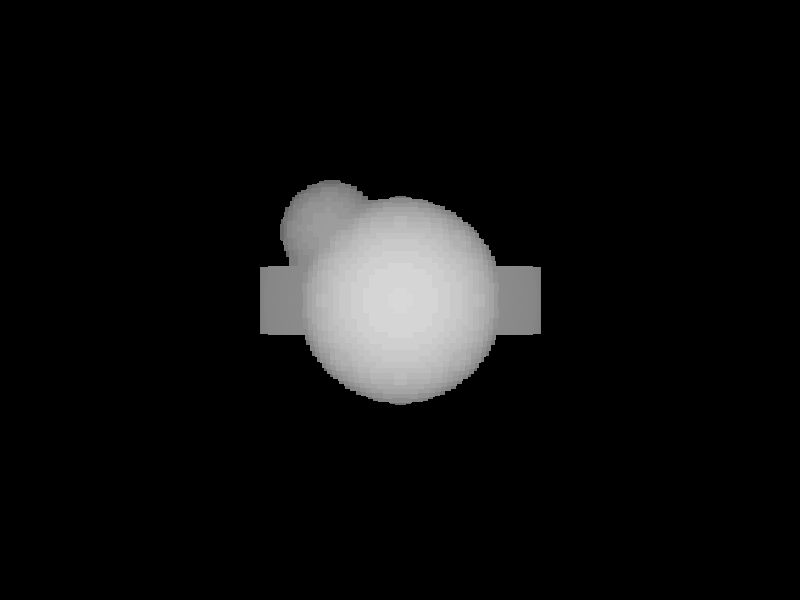
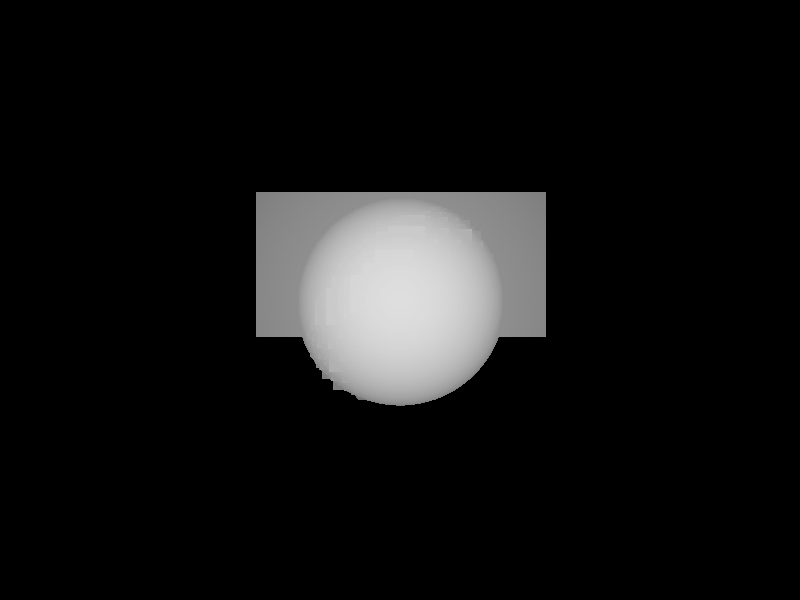
Replace the value function and corner comparing
Implement proper overlap in cubes and somewhat overlap in cube with
sphere. The latter isn't working great for a couple of cases. But that
will be for later. Performance is starting to go down mainly because
of the better octree model and thus deeper raycasting walking.

Changed region(s): [[0.3125, 0.3, 0.6875, 0.69], [0.5938, 0.57, 0.625, 0.63], [0.5625, 0.63, 0.5938, 0.66]]

diff --git a/src/octree/scene.rs b/src/octree/scene.rs
@@ -13,11 +13,35 @@ pub struct Cube {
 }
 
 impl Cube {
-    pub fn value_at(&self, coordinate: &Coordinate) -> bool {
-        let relative = (*coordinate - self.root);
-        return relative.x >= 0.0 && relative.x <= self.width &&
+    pub fn value_at(&self, tree_root: &Coordinate, tree_width: f64) -> char {
+        let relative = (*tree_root - self.root);
+        let root_inside = relative.x >= 0.0 && relative.x <= self.width &&
                relative.y >= 0.0 && relative.y <= self.height &&
                relative.z >= 0.0 && relative.z <= self.depth;
+
+        //when the cube exceeds the tree_node's cube.
+        if root_inside && 
+            relative.x + tree_width < self.width && 
+            relative.y + tree_width < self.height &&
+            relative.z + tree_width < self.depth {
+            return 'f'
+        }
+
+
+        //http://stackoverflow.com/questions/5009526/overlapping-cubes
+        let cond1 = self.root.x + self.width < tree_root.x;
+        let cond2 = tree_root.x + tree_width < self.root.x;
+        let cond3 = self.root.y + self.height < tree_root.y;
+        let cond4 = tree_root.y + tree_width < self.root.y;
+        let cond5 = self.root.z + self.depth < tree_root.z;
+        let cond6 = tree_root.z + tree_width < self.root.z;
+
+
+        if cond1 || cond2 || cond3 || cond4 || cond5 || cond6 {
+            return 'e'
+        } else {
+            return 'p'
+        }
     }
 }
 
@@ -27,10 +51,54 @@ pub struct Sphere {
 }
 
 impl Sphere {
-    pub fn value_at(&self, coordinate: &Coordinate) -> bool {
-        return (*coordinate - self.root).norm() <= self.radius;
+    pub fn value_at(&self, coordinate: &Coordinate, width: f64) -> char {
+        let relative = (*coordinate - self.root);
+
+
+
+        let S = self.root;
+        let C1 = *coordinate;
+        let C2 = C1 + Coordinate::new(width, width, width);
+        let R = self.radius;
+        let mut dist_squared = R * R;
+        /* assume C1 and C2 are element-wise sorted, if not, do that now */
+        if (S.x < C1.x) {
+            dist_squared -= squared(S.x - C1.x);
+        } else if (S.x > C2.x) {
+            dist_squared -= squared(S.x - C2.x);
+        }
+
+        if (S.y < C1.y) {
+            dist_squared -= squared(S.y - C1.y);
+        } else if (S.y > C2.y) {
+            dist_squared -= squared(S.y - C2.y);
+        }
+
+        if (S.z < C1.z) {
+            dist_squared -= squared(S.z - C1.z);
+        } else if (S.z > C2.z) {
+            dist_squared -= squared(S.z - C2.z);
+        }
+
+        if dist_squared > 0.0 {
+            if relative.norm() < self.radius && //root inside & opposite corner inside
+                (C2 - self.root).norm() < self.radius { 
+                return 'f'
+            } else {
+                return 'p';
+            }
+        } else {
+
+            return 'e';//(*coordinate - self.root).norm() <= self.radius;
+        } 
     }
+
 }
+
+fn squared(value: f64) -> f64 {
+    return value * value;
+}
+
 
 pub struct Scene {
     pub objects: Vec<Primitive>,
@@ -41,22 +109,33 @@ impl Scene {
         return Scene { objects: vec![] };
     }
 
-    pub fn value_at(&self, coordinate: &Coordinate) -> bool {
+    pub fn value_at(&self, coordinate: &Coordinate, width: f64) -> char {
+        let mut partial = false;
         for object in self.objects.iter() {
             match object {
                 &Primitive::Sphere(ref obj) => {
-                    if obj.value_at(coordinate) {
-                        return true;
+                    let response = obj.value_at(coordinate, width);
+                    if response == 'f' {
+                        return 'f';
+                    } else if response == 'p' {
+                        partial = true;
                     }
                 },
                 &Primitive::Cube(ref obj) => {
-                    if obj.value_at(coordinate) {
-                        return true;
+                    let response = obj.value_at(coordinate, width);
+                    if response == 'f' {
+                        return 'f';
+                    } else if response == 'p' {
+                        partial = true;
                     }
                 }
             }
         }
-        return false;
+        if partial {
+            return 'p'
+        } else {
+            return 'e'
+        }
     }
 }
 

diff --git a/src/octree/octree.rs b/src/octree/octree.rs
@@ -27,7 +27,7 @@ impl Node {
         for corner in corners().iter() {
             let coord = *corner * width + root;
             let cube_status = split(&coord, width, scene);
-            if width >= 0.4 && cube_status == 'p' {
+            if width >= 0.05 && cube_status == 'p' {
                 tree.push(Node::build(coord, width / 2.0, scene));
             } else if cube_status == 'f'  {
                 tree.push(Node::Filled);
@@ -87,38 +87,40 @@ pub fn new(width: f64, root: Coordinate) -> Octree {
 }
 
 fn split(root: &Coordinate, width: f64, scene: &Scene) -> char {
-    let mut filled = 0;
-    let mut empty = 0;
+    //let mut filled = 0;
+    //let mut empty = 0;
 
-    let hw = width / 2.0; //half width
-    let center: Coordinate = *root + Coordinate::new(hw, hw ,hw);
-    let center_value = scene.value_at(&center);
+    return scene.value_at(&root, width);
+    
+    //let hw = width / 2.0; //half width
+    //let center: Coordinate = *root + Coordinate::new(hw, hw ,hw);
+    //let center_value = scene.value_at(&center);
 
-    if center_value {
-        filled += 1;
-    } else {
-        empty += 1;
-    }
+    //if center_value {
+    //    filled += 1;
+    //} else {
+    //    empty += 1;
+    //}
 
 
-    for node in corners() {
-        let node_corner = *root + (node * width);
-        
-        if scene.value_at(&node_corner) {
-            filled += 1;
-        } else {
-            empty += 1;
-        }
+    //for node in corners() {
+    //    let node_corner = *root + (node * width);
+    //    
+    //    if scene.value_at(&node_corner) {
+    //        filled += 1;
+    //    } else {
+    //        empty += 1;
+    //    }
 
-        if filled > 0 && empty > 0 {
-            return 'p';
-        }
-    }
-    if filled == 9 {
-        return 'f'
-    } else {
-        return 'e'
-    }
+    //    if filled > 0 && empty > 0 {
+    //        return 'p';
+    //    }
+    //}
+    //if filled == 9 {
+    //    return 'f'
+    //} else {
+    //    return 'e'
+    //}
 }
 
 

diff --git a/src/main.rs b/src/main.rs
@@ -56,6 +56,7 @@ fn image_out(tree: &Octree, distance: f64) {
         let x = (img_width as f64) /2.0 -  img_x as f64;
         let y = (img_height as f64) /2.0 -  img_y as f64;
         let normal = Coordinate::new(x,y,z).normalize();
+        print!("pixel: {:?}:{:?}\r", img_x, img_y);
 
         let pixel = Pixel { 
             normal: normal,
@@ -99,10 +100,10 @@ fn main() {
     let obj = Sphere { root: Coordinate::new(5.0, 5.0, 5.0), radius: 3.0 };
     scene.objects.push(Primitive::Sphere(obj));
 
-    let obj = Sphere { root: Coordinate::new(7.0, 7.0, 5.0), radius: 1.5 };
-    scene.objects.push(Primitive::Sphere(obj));
+    //let obj = Sphere { root: Coordinate::new(7.0, 7.0, 5.0), radius: 1.5 };
+    //scene.objects.push(Primitive::Sphere(obj));
 
-    let obj = Cube { root: Coordinate::new(1.0, 4.0, 4.0), width: 8.0, height: 2.0, depth: 2.0 };
+    let obj = Cube { root: Coordinate::new(1.0, 4.0, 4.0), width: 8.0, height: 4.0, depth: 2.0 };
     scene.objects.push(Primitive::Cube(obj));
     //let a = scene.value_at(&Coordinate::new(2.0, 2.0, 2.0));
     //println!("{:?}", a);
@@ -110,6 +111,11 @@ fn main() {
 
     let mut tree: Octree = octree::octree::new(width, root);
     tree.build(&scene);
+    //let coord = Coordinate::new(5.0, 5.0, 5.0);
+    //let a = scene.value_at(&coord, 1.0);
+    //println!("{:?}", a);
+
+
     //points_out(tree.nodes, root, width);
 
     image_out(&tree, 20.0);
